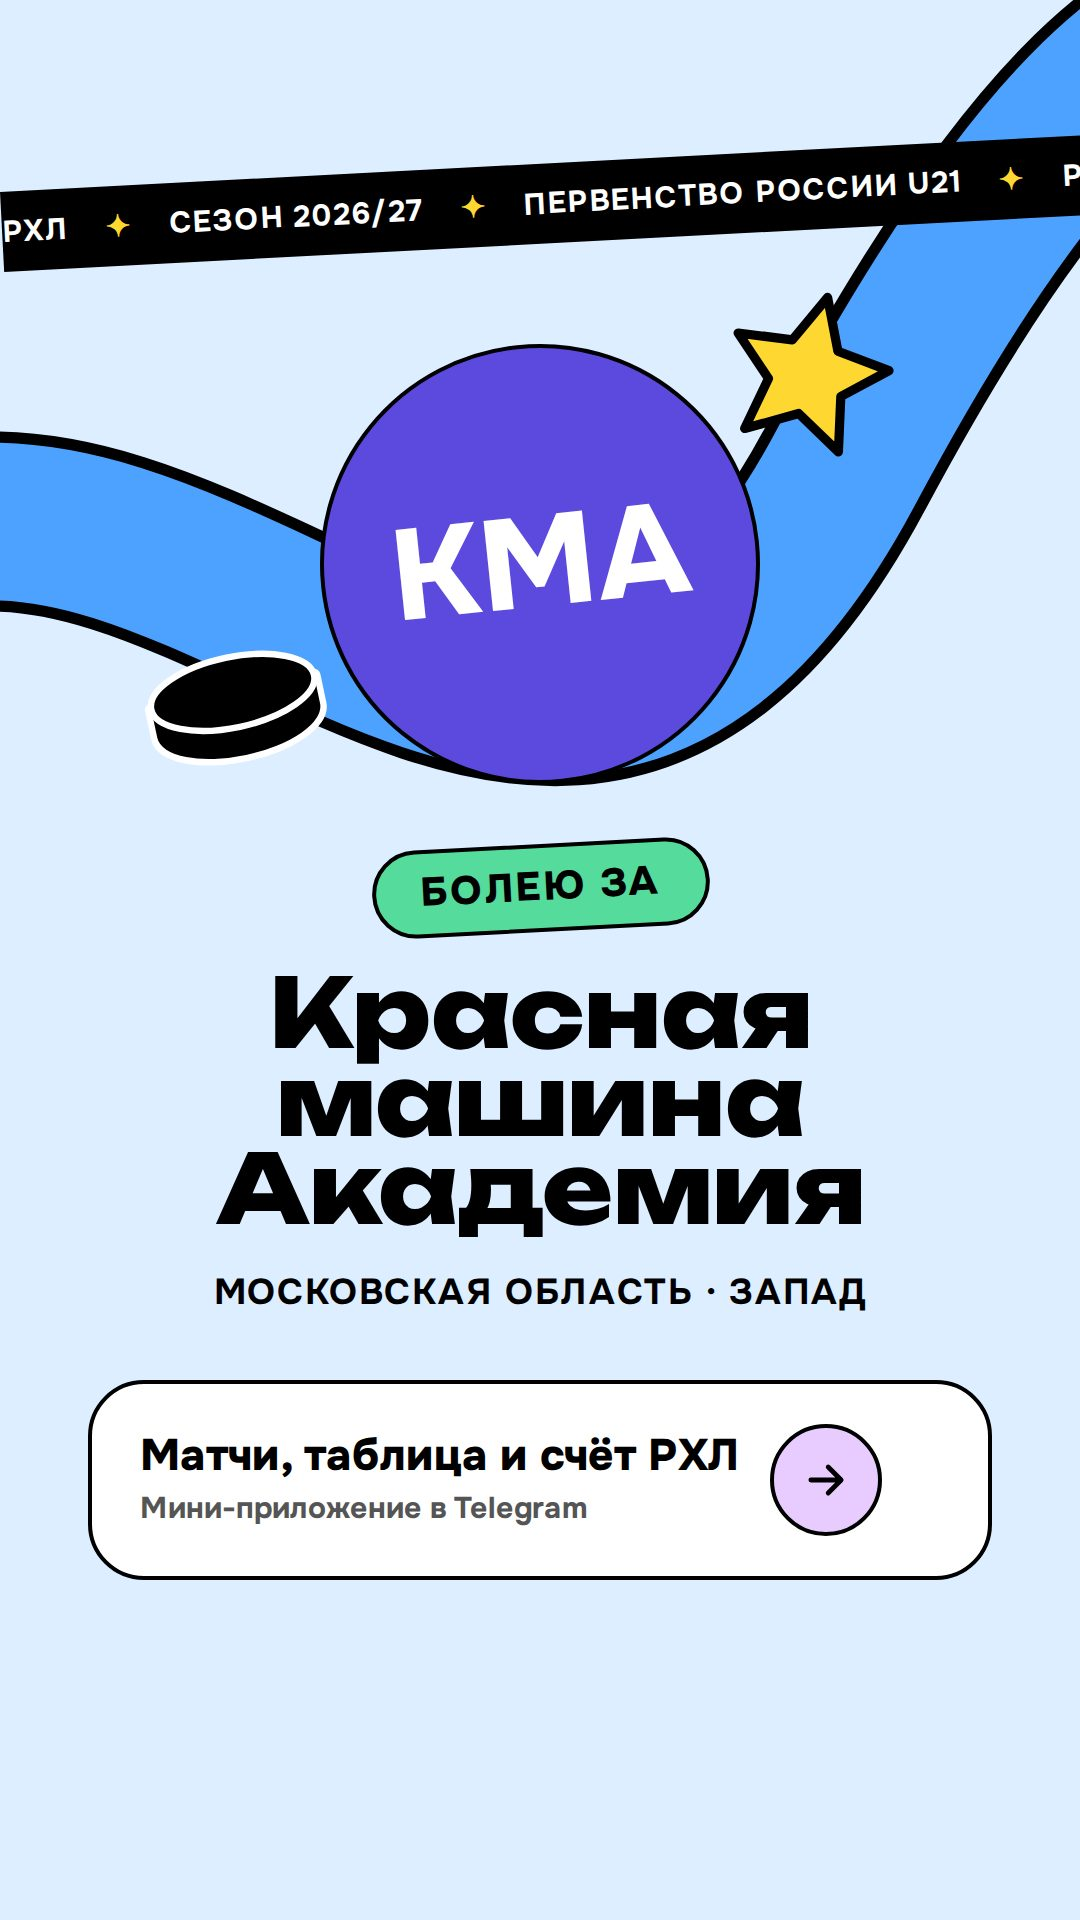
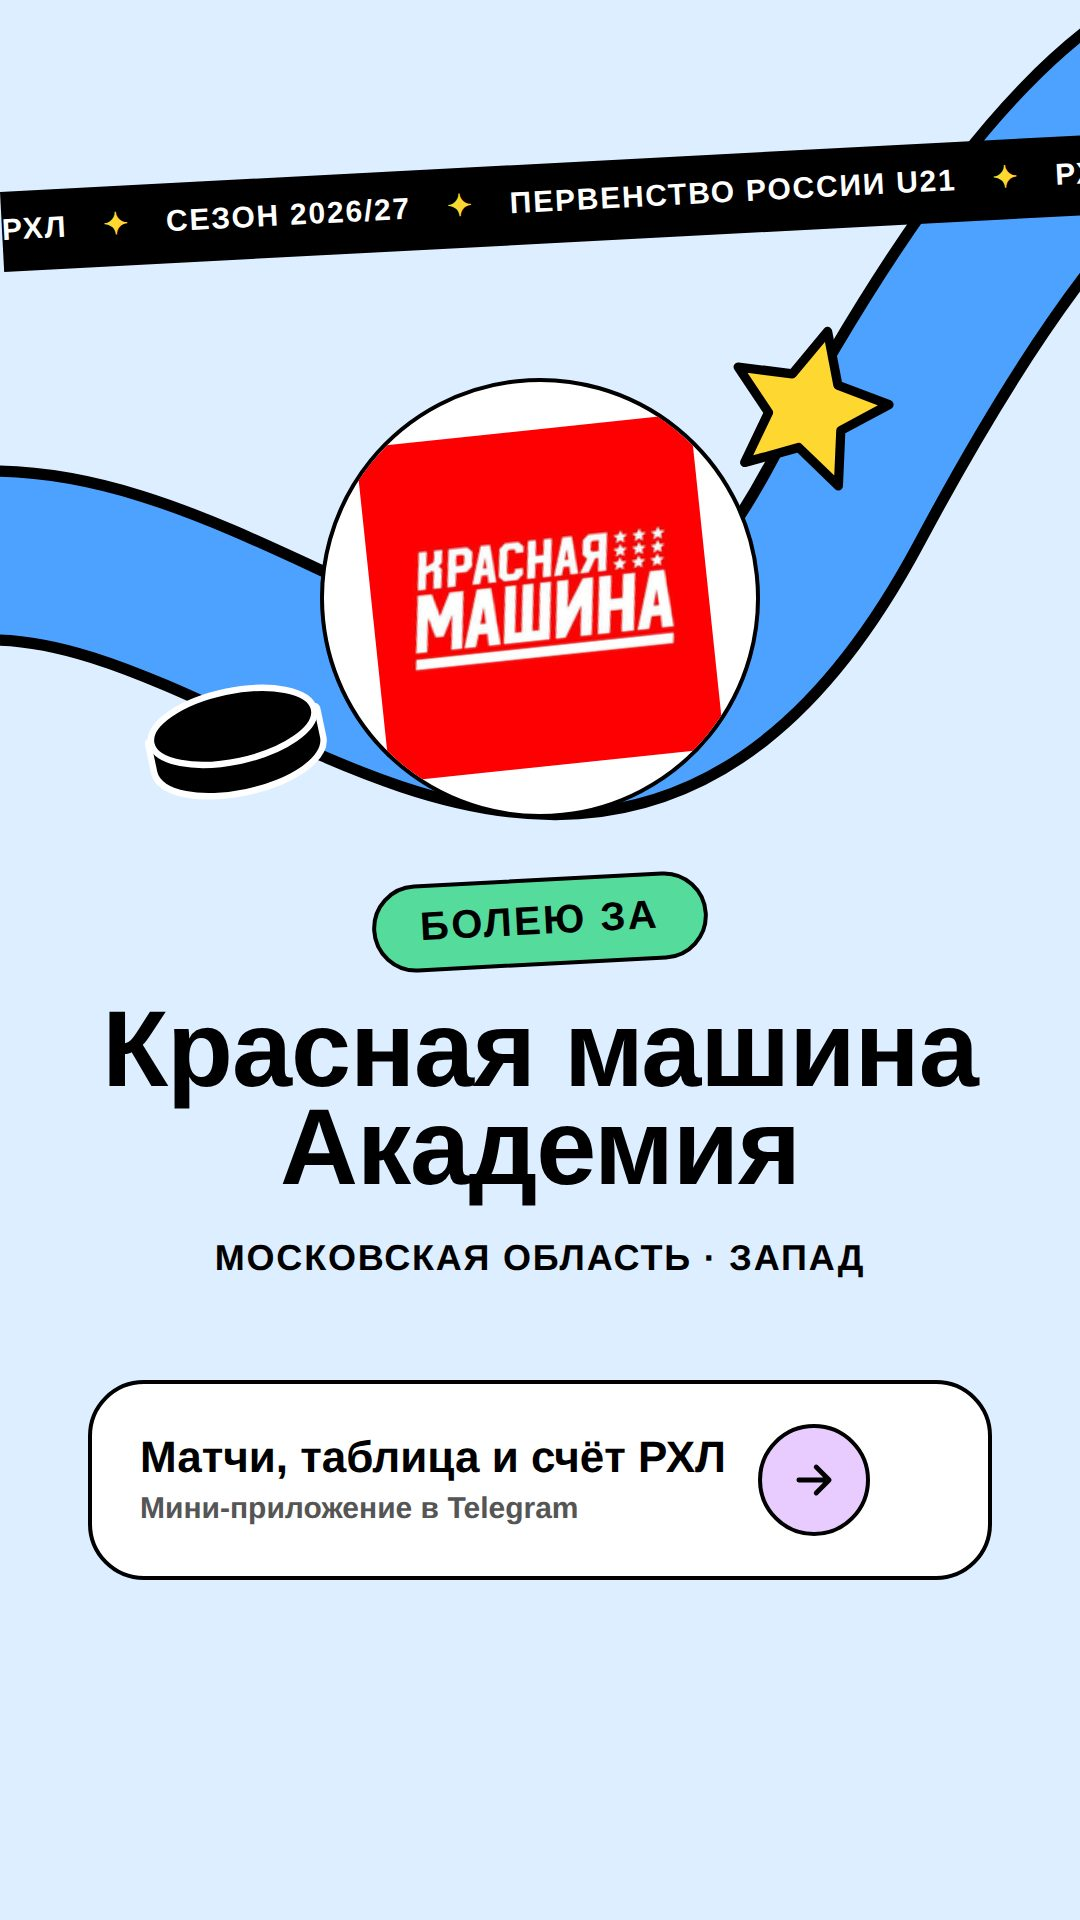
Эмблемы «Витязь-Подольска», «Краснодара» и «Красной машины Академии»
Прислал владелец продукта. У «Витязя» убран белый фон, у «Краснодара»
щит вырезан из двухцветной подложки, «Красная машина» — красный квадрат
как есть. Все приведены к 200×200. Карточки для историй перерисованы.
Эмблемы теперь у всех 26 клубов.

Claude-Session: https://claude.ai/code/session_01SSWisuwZSPM1iFzfDhYsMq

diff --git a/docs/ARCHITECTURE.md b/docs/ARCHITECTURE.md
@@ -221,7 +221,7 @@ flowchart LR
 
 | Шаг | Что делаем | Решение | Статус |
 | --- | --- | --- | --- |
-| 1. Эмблемы всех клубов | Эмблемы 26 клубов вместо стикеров с аббревиатурой | — | 23 из 26. Добавлены «Ахмат-Гранит», «Динамо-Карелия», «Калужские Ракеты», «Ростов» (Википедия). Нет у «Витязь-Подольска», «Краснодара», «Красной машины Академии»: в открытом доступе их эмблем не нашлось — просить у пресс-служб или ждать `rhl.fhr.ru` |
+| 1. Эмблемы всех клубов | Эмблемы 26 клубов вместо стикеров с аббревиатурой | — | сделано: 26 из 26. «Ахмат-Гранит», «Динамо-Карелия», «Калужские Ракеты», «Ростов» — из Википедии; «Витязь-Подольск», «Краснодар», «Красная машина Академия» — прислал владелец продукта |
 | 2. История очных встреч | В карточке матча: победы, голы, пять последних игр, кто сильнее по истории | ADR-006 | сделано: `history.py` → `history.json` (1553 матча за 5 сезонов) → `webapp/data/h2h.json` → блок в карточке матча |
 | 3. Составы на сезон | В «Я» под паспортом — состав любимой команды, лидеры, карточка игрока; составы соперников из карточки матча | ADR-007 | ждёт `rhl.fhr.ru`: на нём составы 2026/27 |
 | 4. Статистика игроков по ходу сезона | Строка статистики каждого игрока обновляется после игрового дня, лидеры команды на «Главной» | ADR-007 | после шага 3 |

diff --git a/CLAUDE.md b/CLAUDE.md
@@ -34,7 +34,7 @@ https://claude.ai/code/artifact/b73460ae-abd0-4c96-9670-c62615e1ffa5
 | `history.json` | Прошлые сезоны, команды уже в id из `teams.json`. В git, пересобирается руками раз в сезон |
 | `webapp/` | Мини-апп: `index.html`, `style.css`, `app.js`, без сборки. Публикуется на GitHub Pages |
 | `webapp/brand/` | Иконка для экрана загрузки Telegram и фавиконки (`icon.svg`, `icon-512.png`) |
-| `webapp/logos/` | Эмблемы клубов 200×200, путь — поле `logo` в `teams.json`. Нет у трёх: см. план в `ARCHITECTURE.md` |
+| `webapp/logos/` | Эмблемы всех 26 клубов, 200×200 PNG с прозрачным фоном, путь — поле `logo` в `teams.json` |
 | `webapp/story.html`, `webapp/stories/` | Карточки клубов для Telegram Stories и их готовые картинки (ADR-004) |
 | `tools/render_stories.js` | Перерисовать `webapp/stories/` (Playwright, запускается руками) |
 | `stickers/` | Стикеры бота 512×512 и эмодзи `emoji/` 100×100, WEBP; исходник — `stickers.html` (ADR-005) |
